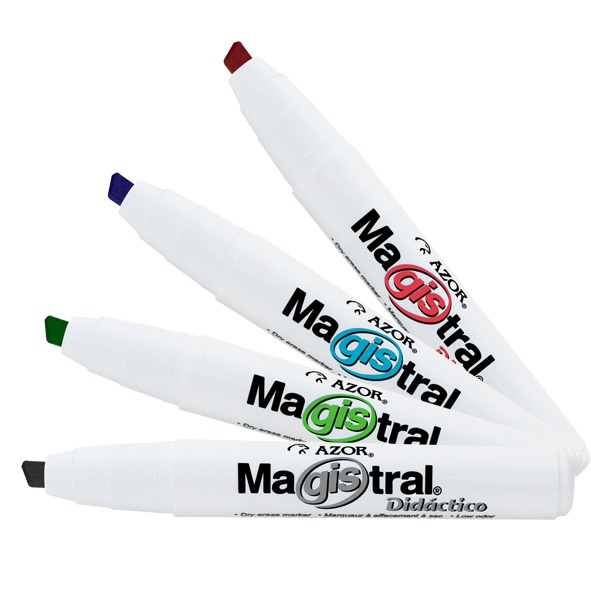
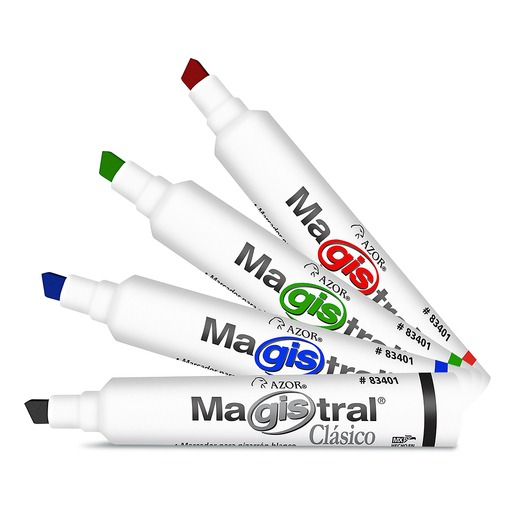
mejoras

Changed region(s): [[0.0311, 0.0621, 0.9942, 0.901], [0.1864, 0.2796, 0.4039, 0.5282], [0.0621, 0.5282, 0.2175, 0.6524]]

diff --git a/stock.js b/stock.js
@@ -110,6 +110,7 @@ let stock = [
     {id:3501, nombre:"Marcador para pizarron Nextep ne-082", descripcion:"MARCADOR P/PIZARRON NEXTEP NEGRO NE-082 COLORES DISPONIBLES: NEGRO, AZUL, ROJO Y VERDE", precio:"13", img:"img-produc/3501/3501.jpg", img2:"img-produc/3501/3501-2.jpg", img3:"img-produc/3501/3501-3.jpg", category:"Papelería"},
     {id:3462, nombre:"Marcador permanente Nextep negro ne-074", descripcion:"MARCADOR PERMANENTE NEXTEP NEGRO, ROJO, AZUL NE-074, NE-076, NE-075 CINCEL 4MM", precio:"10", img:"img-produc/3462/3462.jpg", img2:"img-produc/3462/3462-2.jpg", img3:"img-produc/3462/3462-3.jpg", category:"Papelería"},
     {id:471, nombre:"Marcador para pizarron magistral clasico", descripcion:"MARCADOR P/PIZARRON MAGISTRAL CLASICO NEGRO, AZUL, ROJO Y VERDE", precio:"24", img:"img-produc/471/471.jpg", img2:"img-produc/471/471-2.jpg", img3:"img-produc/471/471-3.jpg", category:"Papelería"},
+    {id:486, nombre:"Marcador para pizarron magistral didactico", descripcion:"MARCADOR P/PIZARRON MAGISTRAL DIDACTICO NEGRO AZOR COLORES DISPONIBLES: NEGRO, AZUL, ROJO, VERDE", precio:"26", img:"img-produc/486/486.jpg", img2:"img-produc/486/486-2.jpg", img3:"img-produc/486/486-3.jpg", category:"Papelería"},
     {id:247601, nombre:"Marcador permanente Nextep punto fino ne-072", descripcion:"MARCADOR PERMANENTE NEXTEP PUNTO FINO AZUL Y NEGRO NE-072", precio:"10", img:"img-produc/247601/247601.jpg", img2:"img-produc/247601/247601-2.jpg", img3:"img-produc/247601/247601-3.jpg", category:"Papelería"},
     {id:483, nombre:"Marcador permanente Sharpie punto fino", descripcion:"MARCADOR PERMANENTE SHARPIE PUNTO FINO NEGRO 2102504 DISPONIBLE EN ROJO, AZUL, VERDE, PLATA Y ORO", precio:"18", img:"img-produc/483/483.jpg", img2:"img-produc/483/483-2.jpg", img3:"img-produc/483/483-3.jpg", category:"Papelería"},
     {id:1806, nombre:"Marcador permanente Sharpie punto fino doble punta", descripcion:"MARCADOR PERMANENTE SHARPIE TWIN TIP NEGRO", precio:"24", img:"img-produc/1806/1806.jpg", img2:"img-produc/1806/1806-2.jpg", img3:"img-produc/1806/1806-3.jpg", category:"Papelería"},
@@ -120,6 +121,15 @@ let stock = [
     {id:413, nombre:"Marcador permanente Pelikan 440", descripcion:"MARCADOR PERMANENTE PELIKAN 440 NEGRO", precio:"17", img:"img-produc/413/413.jpg", img2:"img-produc/413/413-2.jpg", img3:"img-produc/413/413-3.jpg", category:"Papelería"},
     {id:185, nombre:"Marcador permanente Pilot s400", descripcion:"MARCADOR PERMANENTE PILOT S400  NEGRO Y AZUL ", precio:"18", img:"img-produc/185/185.jpg", img2:"img-produc/185/185-2.jpg", img3:"img-produc/185/185-3.jpg", category:"Papelería"},
     {id:538, nombre: "Pegamento liquido bully Blanco 1kg", descripcion:"Pegamento liquido bully Blanco 1kg", precio:"88", img:"img-produc/538/538.jpg", img2:"img-produc/538/538-2.jpg", img3:"img-produc/538/538-3.jpg", category:"Papelería"},
+    {id:2025, nombre:"Engrapadora plastica mediatira Ne-105", descripcion:"ENGRAPADORA NEXTEP NE-105 PLASTICA MEDIATIRA", precio:"64", img:"img-produc/2025/2025.jpg", img2:"img-produc/2025/2025-2.jpg", img3:"img-produc/2025/2025-3.jpg", category:"Papelería"},
+    {id:2179, nombre:"Engrapadora plastica tiracompleta Ne-104", descripcion:"ENGRAPADORA NEXTEP NE-104 PLASTICA TIRACOMPLETA", precio:"69", img:"img-produc/2179/2179.jpg", img2:"img-produc/2179/2179-2.jpg", img3:"img-produc/2179/2179-3.jpg", category:"Papelería"},
+    {id:19, nombre:"Engrapadora plastica tiracompleta Ne-100N", descripcion:"ENGRAPADORA NEXTEP NE-100N METALICA TIRACOMPLETA ", precio:"104", img:"img-produc/19/19.jpg", img2:"img-produc/19/19-2.jpg", img3:"img-produc/19/19-3.jpg", category:"Papelería"},
+    {id:3280, nombre:"Engrapadora metalica mediatira Ne-101R", descripcion:"ENGRAPADORA NEXTEP NE-101R METALICA MEDIATIRA ", precio:"79", img:"img-produc/3280/3280.jpg", img2:"img-produc/3280/3280-2.jpg", img3:"img-produc/3280/3280-3.jpg", category:"Papelería"},
+    {id:934005, nombre:"Engrapadora tiracompleta metalica Ne-100", descripcion:"ENGRAPADORA NEXTEP NE-100 METALICA TIRACOMPLETA ", precio:"97", img:"img-produc/934005/934005.jpg", img2:"img-produc/934005/934005-2.jpg", img3:"img-produc/934005/934005-3.jpg", category:"Papelería"},
+    {id:302, nombre:"Engrapadora metalica Pilot 2000 ejecutiva ", descripcion:"ENGRAPADORA PILOT 2000 GOLPE METALICA EJECUTIVA", precio:"277", img:"img-produc/302/302.jpg", img2:"img-produc/302/302-2.jpg", img3:"img-produc/302/302-3.jpg", category:"Papelería"},
+    {id:3232, nombre:"Engrapadora tiracompleta pilot 401 metalica cromada", descripcion:"ENGRAPADORA PILOT 401 TIRA COMPLETA GOLPE CROMADA", precio:"259", img:"img-produc/3232/3232.jpg", img2:"img-produc/3232/3232-2.jpg", img3:"img-produc/3232/3232-3.jpg", category:"Papelería"},
+    {id:3838, nombre:"Mini engrapadora Mae con desengrapador", descripcion:"MINI ENGRAPADORA MAE C/DESENGRAPADORA MEM-26N", precio:"33", img:"img-produc/3838/3838.jpg", img2:"img-produc/3838/3838-2.jpg", img3:"img-produc/3838/3838-3.jpg", category:"Papelería"},
+    {id:5280, nombre:"Mini engrapadora Barrilito con grapas blister 6115A", descripcion:"MINI ENGRAPADORA BARRILITO ESTANDAR C/GRAPAS BLISTER 6115A", precio:"54", img:"img-produc/5280/5280.jpg", img2:"img-produc/5280/5280-2.jpg", img3:"img-produc/5280/5280-3.jpg", category:"Papelería"},
     {id:2707, nombre: "Cajon de Dinero Nextep 5 Billetes/8 Monedas NE-515", descripcion:"Marca: Nextep Artículo: Cajón de dinero Color: Negro Material: Acero(Carcasa) Compartimentos de monedas: 8 Compartimentos para billetes: 4 Puertos: RJ-11 Ranura para documentos", precio:"1250", img:"img-produc/2707/2707.jpg", img2:"img-produc/2707/2707-2.jpg", img3:"img-produc/2707/2707-3.jpg", category: "Punto de venta"},
     {id:2187, nombre: "Cajon de Dinero Nextep 4 Billetes/8 Monedas NE-514", descripcion:"Marca: Nextep Artículo: Cajón de dinero Color: Negro Material: Acero(Carcasa) Compartimentos de monedas: 8 Compartimentos para billetes: 4 Puertos: RJ-11 Ranura para documentos", precio:"900", img:"img-produc/2187/2187.jpg", img2:"img-produc/2187/2187-2.jpg", img3:"img-produc/2187/2187-3.webp", category: "Punto de venta"},
     {id:3028, nombre: "Impresora termica miniprinter 80mm nextep ne-511 Wifi", descripcion:"Mini Impresora Nextep Térmica 80mm USB/RJ11/LAN Wifi", precio:"1990", img:"img-produc/3028/3028.jpg", img2:"img-produc/3028/3028-2.jpg", img3:"img-produc/3028/3028-3.jpg", category: "Punto de venta"},

diff --git a/product.html b/product.html
@@ -1,5 +1,5 @@
 <!DOCTYPE html>
-<html lang="en">
+<html lang="es">
 <head>
     <meta charset="UTF-8">
     <meta http-equiv="X-UA-Compatible" content="IE=edge">
@@ -83,8 +83,8 @@
 
         const sliderIndi = document.querySelector(".count-uni")
         sliderIndi.innerHTML =`
-        <div class="slider-btn-iz" id="btn-iz">&#60</div>
-            <div class="container-slider">
+        <div class="slider-btn slider-btn-iz" id="btn-iz">&#60</div>
+            <div class="slider-container">
                 <div class="slider" id="slider">
                     <div class="slider-section">
                         <img src="${product.img}" alt="" class="slider-img">
@@ -97,55 +97,37 @@
                     </div>
                 </div>
             </div>
-            <div class="slider-btn-dere" id="btn-dere">&#62</div>
+            <div class="slider-btn slider-btn-dere" id="btn-dere">&#62</div>
         `
 
-        const slider = document.querySelector("#slider");
-         let sliderSection = document.querySelectorAll(".slider-section");
-         let sliderSectionLast = sliderSection[sliderSection.length -1];
-         
-         const btnLeft = document.querySelector("#btn-iz")
-         const btnRight = document.querySelector("#btn-dere")
-         
-         slider.insertAdjacentElement("afterbegin", sliderSectionLast);
-         slider.style.marginLeft="-100%";
-         
-         function next() {
-             let sliderSectionFirst = document.querySelectorAll(".slider-section")[0];
-             slider.style.marginLeft="-200%";
-             slider.style.transition="all 0.5s";
-             setTimeout(function(){
-                 slider.style.transition="none";
-                 slider.insertAdjacentElement("beforeend", sliderSectionFirst);
-                 slider.style.marginLeft="-100%";
-             }, 500)
-         }
-         
-         function Prev() {
-             let sliderSection = document.querySelectorAll(".slider-section");
-             let sliderSectionLast = sliderSection[sliderSection.length -1];
-             slider.style.marginLeft="0%";
-             slider.style.transition="all 0.5s";
-             setTimeout(function(){
-                 slider.style.transition="none"
-                 slider.insertAdjacentElement("afterbegin", sliderSectionLast);
-                 slider.style.marginLeft="-100%"
-             }, 500)
-         }
-         
-         btnRight.addEventListener("click", function(){
-             next()
-         })
-         
-         btnLeft.addEventListener("click", function(){
-             Prev()
-         })
+        const slider = document.querySelector(".slider");
+const sliderItems = document.querySelectorAll(".slider-section");
+const prevBtn = document.querySelector(".slider-btn-iz");
+const nextBtn = document.querySelector(".slider-btn-dere");
 
-            } else {
-                const productDetails = document.getElementById("productDetails");
-                productDetails.innerHTML = `<p>Producto no encontrado.</p>`;
-            }
+let currentIndex = 0;
+
+function updateSlider() {
+    slider.style.transform = `translateX(-${currentIndex * 100}%)`;
+}
+
+function nextSlide() {
+    currentIndex = (currentIndex + 1) % sliderItems.length;
+    updateSlider();
+}
+
+function prevSlide() {
+    currentIndex = (currentIndex - 1 + sliderItems.length) % sliderItems.length;
+    updateSlider();
+}
+
+nextBtn.addEventListener("click", nextSlide);
+prevBtn.addEventListener("click", prevSlide);
+
+// Iniciar el carrusel automáticamente
+}
         }
+
 
         let inicio = document.getElementById("inicio");
 

diff --git a/product2.html b/product2.html
@@ -1,9 +1,13 @@
 <!DOCTYPE html>
-<html>
+<html lang="en">
 <head>
-    <title>Detalles del producto</title>
+    <meta charset="UTF-8">
+    <meta http-equiv="X-UA-Compatible" content="IE=edge">
+    <meta name="viewport" content="width=device-width, initial-scale=1.0">
     <link rel="stylesheet" href="Product.css">
     <script src="https://kit.fontawesome.com/d0deee4c58.js" crossorigin="anonymous"></script>
+    <link rel="shortcut icon" href="img/logo tecnocab_.png">
+    <title>Productos</title>
 </head>
 <body>
     <div class="containermadre">
@@ -61,7 +65,11 @@
             <p id="precio-info"><span>$</span>${formatNumberWithCommas(product.precio)}</p>
             <div class="contenedor-pedir">
                 <input type="number" id="quantity${product.id}" value="0" min="0">
-                <button onclick="addToCart(${product.id})">Agregar al carrito</button>
+                <div class="conte-cantidad">
+                                <button class="btn-mas" onclick="increaseQuantity(${product.id})">+</button>
+                                <button class="btn-menos" onclick="decreaseQuantity(${product.id})">-</button>
+                        </div>
+                <button class="agrega" onclick="addToCart(${product.id})">Agregar al carrito</button>
             </div>
             <div class="caracteristicas">
                 <p>Características:</p>
@@ -187,6 +195,21 @@ function updateCartCount() {
     const cartCountElement = document.getElementById("cart-count");
     cartCountElement.textContent = cartCount.toString();
 }
+
+function increaseQuantity(productId) {
+    const quantityInput = document.getElementById(`quantity${productId}`);
+    const currentQuantity = parseInt(quantityInput.value);
+    quantityInput.value = (currentQuantity + 1).toString();
+  }
+  
+  // Función para decrementar la cantidad de piezas en 1
+  function decreaseQuantity(productId) {
+    const quantityInput = document.getElementById(`quantity${productId}`);
+    const currentQuantity = parseInt(quantityInput.value);
+    if (currentQuantity > 1) {
+      quantityInput.value = (currentQuantity - 1).toString();
+    }
+  }
   
   // Llama a la función para actualizar el número de productos en el carrito al cargar la página
 
@@ -195,6 +218,7 @@ function updateCartCount() {
     return cart ? JSON.parse(cart) : [];
   }
   updateCartCount();
+
     </script>
 </body>
 </html>

diff --git a/Productorig.css b/Productorig.css
@@ -189,29 +189,28 @@ h2{
     margin: 2rem;
 }
 
-.slider-container {
-    position: relative;
+.container-slider{
+    max-width: 400px;
+    max-height: 400px;
+    margin: auto;
     overflow: hidden;
-    max-height: 600px;
-    width: 300px;
-    
 }
 
-.slider {
+.slider{
     display: flex;
-    transition: transform 0.5s ease-in-out;
+    width: 300%;
+    height: 390px;
 }
 
-.slider-section {
-    flex: 0 0 100%;
-    width: 100%;
-    overflow: hidden;
+.slider-section{
+    width: 100%
 }
 
-.slider-section img {
+.slider img{
+    display: block;
+    height: 100%;
     width: 100%;
-    height: auto;
-    object-fit: cover;
+    object-fit: fill;
 }
 
 .slider-btn-dere, .slider-btn-iz{
@@ -436,36 +435,36 @@ h2{
     }
     
     
-    .slider-container {
-        position: relative;
+    .container-slider{
+        max-width: 300px;
+        max-height: 280px;
+        margin: auto;
         overflow: hidden;
-        max-height: 600px;
-        width: 300px;   
     }
     
-    .slider {
+    .slider{
         display: flex;
-        transition: transform 0.5s ease-in-out;
+        width: 300%;
+        height: 280px;
     }
     
-    .slider-section {
-        flex: 0 0 100%;
-        width: 100%;
-        overflow: hidden;
+    .slider-section{
+        width: 100%
     }
     
-    .slider-section img {
+    .slider img{
+        display: block;
         width: 100%;
-        height: auto;
-        object-fit: cover;
+        height: 100%;
+        object-fit: fill;
     }
 
     .count-uni{
         display: flex;
         height: auto;
-        max-width: 320px;
+        width: 300px;
         align-items: center;
-        /* margin: 2rem; */
+        margin: 2rem;
     }
 
     

diff --git a/app copy.js b/app copy.js
@@ -17,11 +17,11 @@ function showProducts(page) {
 
     productsToShow.forEach(product => {
         const productDiv = document.createElement("div");
-        productDiv.className = "cuadrado";
+        productDiv.className = `cuadrado`;
         productDiv.innerHTML = `
-        <div class="imagen">
-                        <img src="${product.img}" alt="">
-                    </div>
+        <div class="imagen" onclick="showProductDetails(${product.id})"> <!-- Aplica el evento click al div de la imagen -->
+            <img src="${product.img}" alt="" data-product-id="${product.id}">
+        </div>
                     <div class="info-produc">
                         <div class="texto-producto">
                             <p class="nombre-producto">${product.nombre}</p>
@@ -277,6 +277,9 @@ function filterProducts(searchTerm) {
     currentPage = 1;
     showProducts(currentPage);
 }
+
+
+
 
 
 

diff --git a/cart.html b/cart.html
@@ -1,5 +1,5 @@
 <!DOCTYPE html>
-<html lang="en">
+<html lang="es">
 <head>
     <meta charset="UTF-8">
     <meta http-equiv="X-UA-Compatible" content="IE=edge">

diff --git a/index.html b/index.html
@@ -1,5 +1,5 @@
 <!DOCTYPE html>
-<html lang="en">
+<html lang="es">
 <head>
     <meta charset="UTF-8">
     <meta http-equiv="X-UA-Compatible" content="IE=edge">
